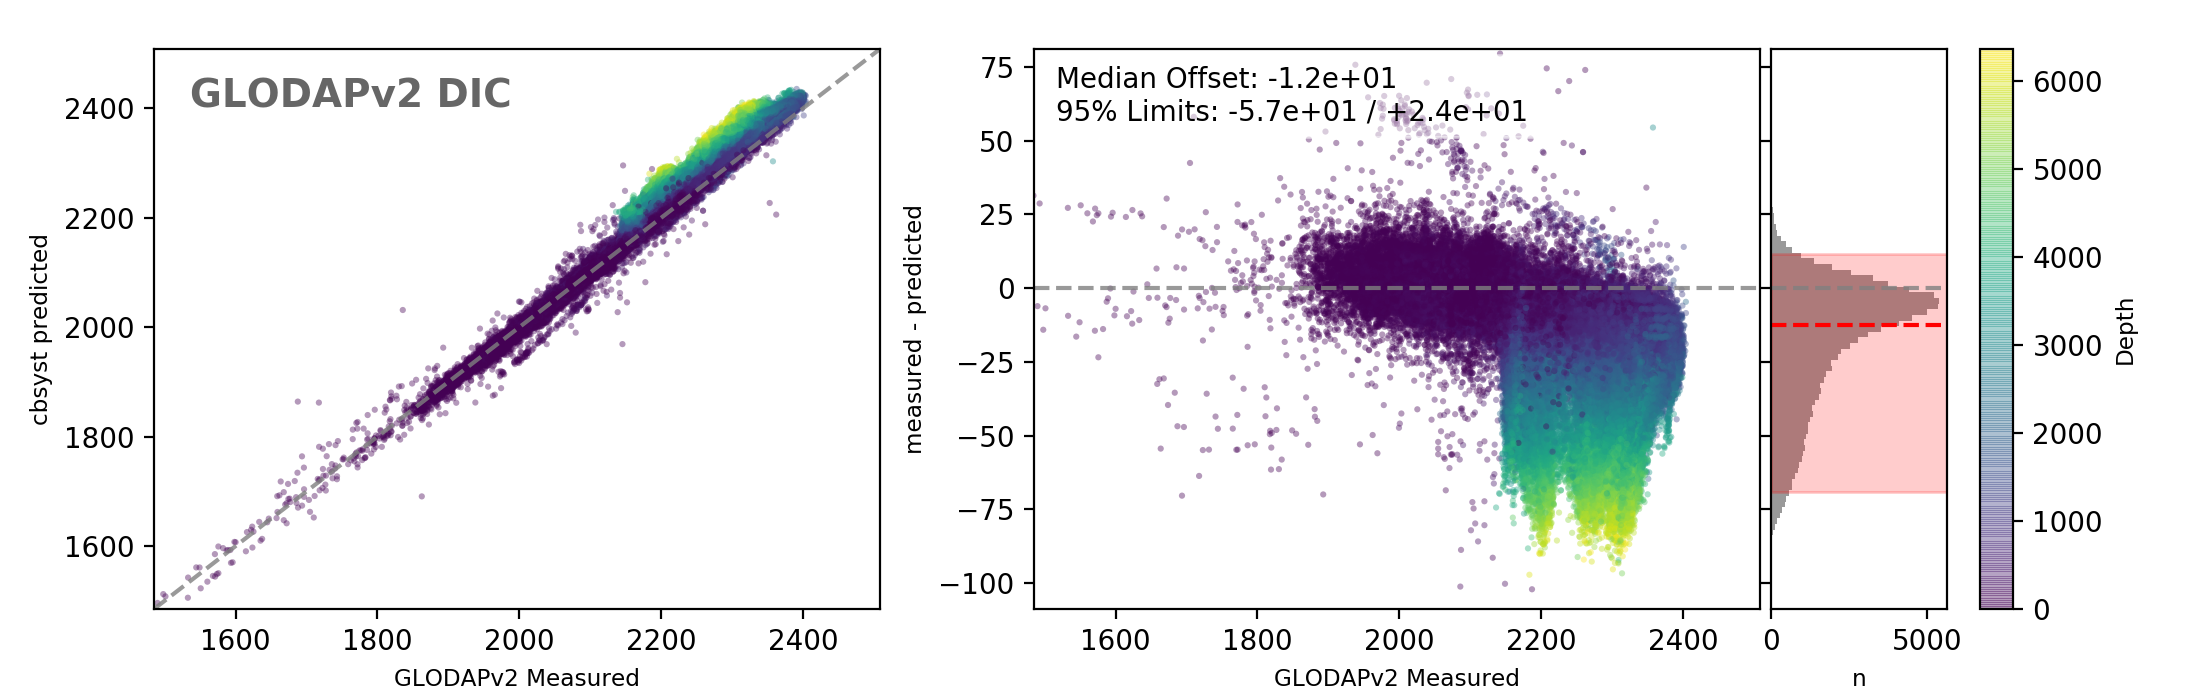
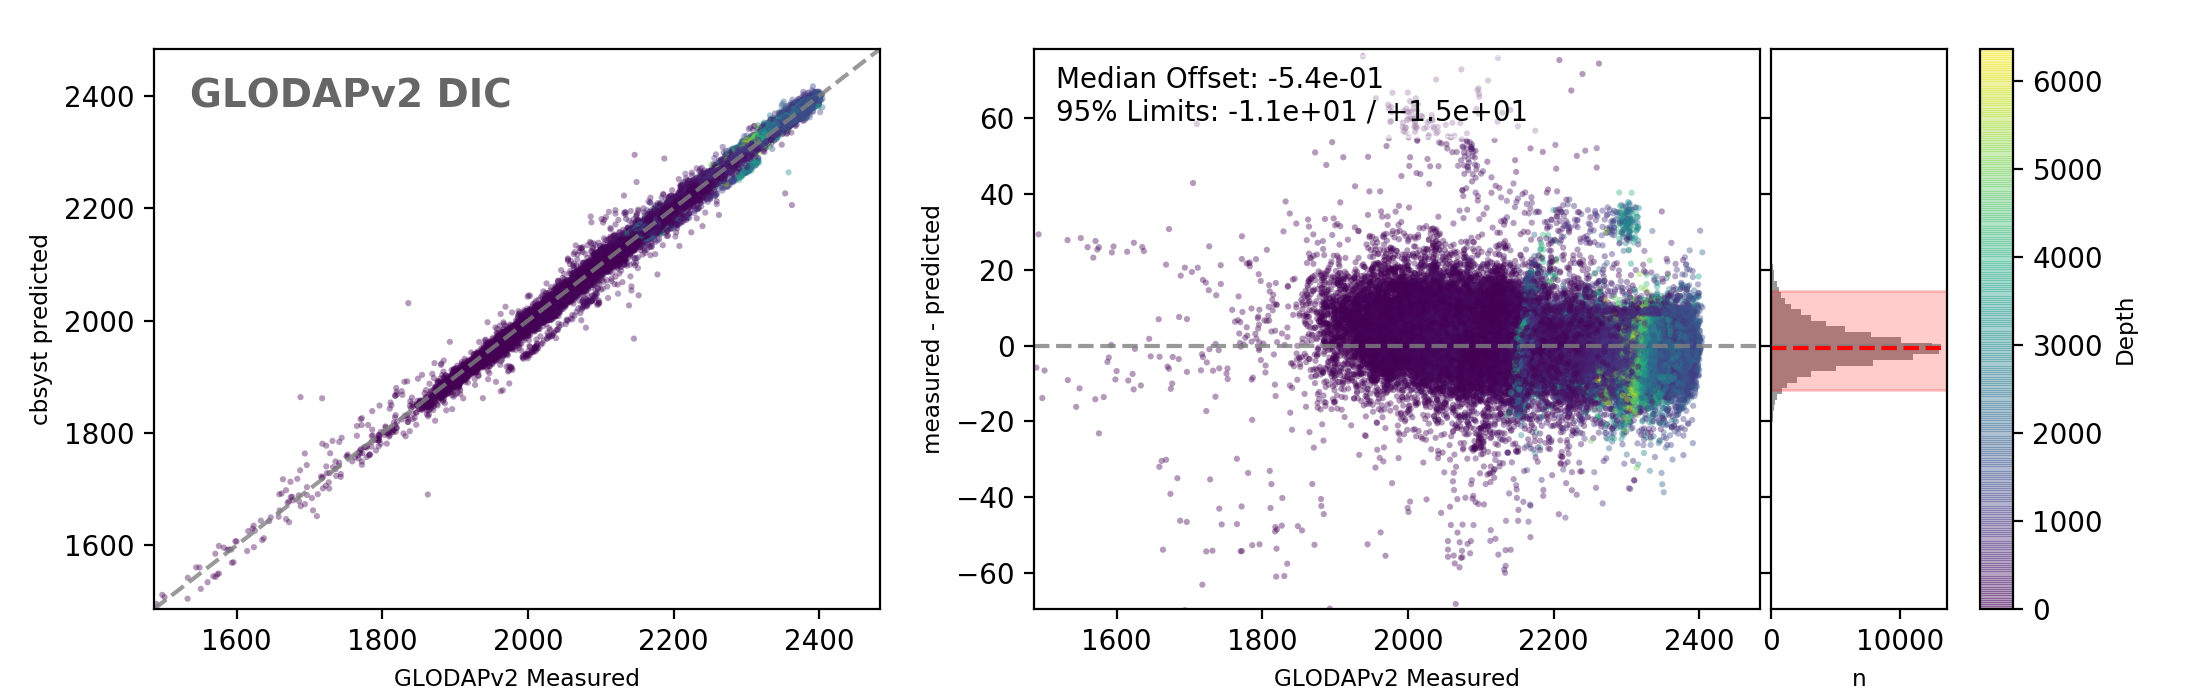
Update GLODAP comparison plots.

diff --git a/cbsyst/test_data/GLODAP_data/plot_GLODAPv2_comparison.py b/cbsyst/test_data/GLODAP_data/plot_GLODAPv2_comparison.py
@@ -21,23 +21,29 @@ def GLODAPv2_comparison(figdir='.'):
     print('Importing GLODAPv2 Data...')
     gd = pd.read_csv('./GLODAPv2_pH_DIC_ALK_subset.csv')
     gd.dropna(subset=['phtsinsitutp', 'temperature',
-                      'salinity', 'tco2', 'talk'], inplace=True)
+                      'salinity', 'tco2', 'talk', 'pressure'], inplace=True)
+    gd.pressure /= 10  # convert pressure to bar
+
+    # bin pressure data
+    bins = np.linspace(gd.pressure.min(), gd.pressure.max(), 200)
+    centers = bins[:-1] + np.diff(bins)
+    gd.binpressure = pd.cut(gd.pressure, bins, labels=centers, include_lowest=True)
 
     # Do the work...
     print('Calculating pH from DIC and TA...')
-    cpH = cb.Csys(TA=gd.talk, DIC=gd.tco2, T=gd.temperature, S=gd.salinity)
+    cpH = cb.Csys(TA=gd.talk, DIC=gd.tco2, T=gd.temperature, S=gd.salinity, P=gd.binpressure)
     print('   Making plots...')
     fig, axs = cplot(gd.phtsinsitutp, cpH.pH, 'pH', 'Depth', gd.depth)
     fig.savefig(figdir + '/Figures/pH_comparison.png', dpi=200)
 
     print('Calculating TA from pH and DIC...')
-    cTA = cb.Csys(pH=gd.phtsinsitutp, DIC=gd.tco2, T=gd.temperature, S=gd.salinity)
+    cTA = cb.Csys(pH=gd.phtsinsitutp, DIC=gd.tco2, T=gd.temperature, S=gd.salinity, P=gd.binpressure)
     print('   Making plots...')
     fig, ax = cplot(gd.talk, cTA.TA, 'Alk', 'Depth', gd.depth)
     fig.savefig('Figures/TA_comparison.png', dpi=200)
 
     print('Calculating DIC from pH and TA...')
-    cDIC = cb.Csys(pH=gd.phtsinsitutp, TA=gd.talk, T=gd.temperature, S=gd.salinity)
+    cDIC = cb.Csys(pH=gd.phtsinsitutp, TA=gd.talk, T=gd.temperature, S=gd.salinity, P=gd.binpressure)
     print('   Making plots...')
     fig, ax = cplot(gd.tco2, cDIC.DIC, 'DIC', 'Depth', gd.depth)
     fig.savefig('Figures/DIC_comparison.png', dpi=200)
@@ -108,7 +114,10 @@ def cplot(obs, pred, var, cvar, c, alpha=0.4, pclims=[.05, 99.95]):
     ax2.text(.03, .97, 'Median Offset: {:.1e}'.format(median) + '\n95% Limits: {:.1e} / +{:.1e}'.format(*(pc95 - median)),
              transform=ax2.transAxes, va='top', ha='left', backgroundcolor=(1, 1, 1, 0.5))
 
-    fig.colorbar(cm, cax=cax, label=cvar)
+    if not isinstance(c, str):
+        fig.colorbar(cm, cax=cax, label=cvar)
+    else:
+        cax.set_visible(False)
 
     return fig, (ax1, ax2, hax, cax)
 
